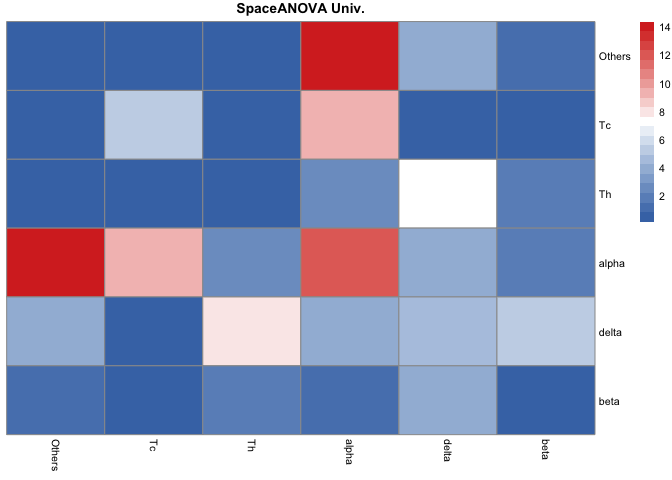
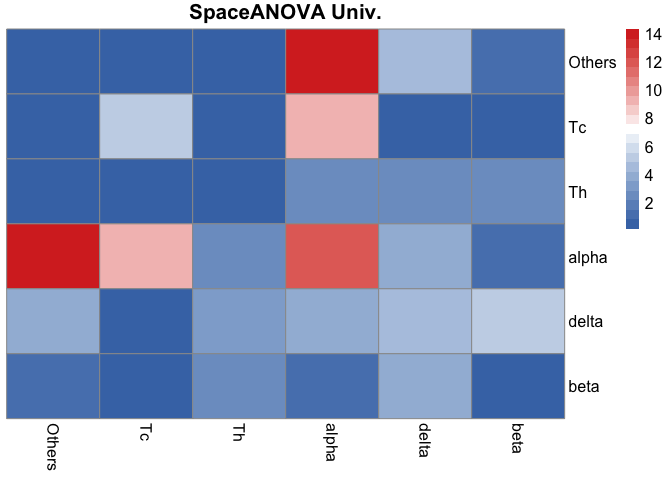
Changing RMD

Changed region(s): [[0.0, 0.0, 1.0, 1.0]]

diff --git a/README.md b/README.md
@@ -15,22 +15,7 @@ We install and load the developmental version of SpaceANOVA from GitHub.
 
 ``` r
 
-suppressWarnings(devtools::install_github('sealx017/SpaceANOVA'))
-# 
-# ── R CMD build ─────────────────────────────────────────────────────────────────
-#      checking for file ‘/private/var/folders/8k/tj8qsmdj7_74drqc_slz0rkh0000gp/T/RtmptMKohV/remotes50f274ef85d7/sealx017-SpaceANOVA-d3ff624/DESCRIPTION’ ...  ✔  checking for file ‘/private/var/folders/8k/tj8qsmdj7_74drqc_slz0rkh0000gp/T/RtmptMKohV/remotes50f274ef85d7/sealx017-SpaceANOVA-d3ff624/DESCRIPTION’
-#   ─  preparing ‘SpaceANOVA’:
-#      checking DESCRIPTION meta-information ...  ✔  checking DESCRIPTION meta-information
-#   ─  checking for LF line-endings in source and make files and shell scripts
-#   ─  checking for empty or unneeded directories
-#        NB: this package now depends on R (>= 3.5.0)
-#        WARNING: Added dependency on R >= 3.5.0 because serialized objects in
-#      serialize/load version 3 cannot be read in older versions of R.
-#      File(s) containing such objects:
-#        ‘SpaceANOVA/Data/IMC_T1DM.rda’
-#   ─  building ‘SpaceANOVA_0.1.0.tar.gz’
-#      
-# 
+suppressWarnings(devtools::install_github('sealx017/SpaceANOVA', quiet = TRUE))
 require(SpaceANOVA)
 
 require(spatstat)
@@ -123,20 +108,20 @@ p_res = p_extract(Final_result)
 Univ_p = p_res[[1]]
 Mult_p = p_res[[2]]
 print(Univ_p)
-#              Others           Tc           Th        alpha        delta
-# Others 7.030910e-01 1.572046e-01 6.421546e-01 5.140401e-15 6.434097e-05
-# Tc     1.589949e-01 1.143203e-05 6.626439e-01 6.437610e-10 2.164065e-01
-# Th     6.596069e-01 6.778576e-01 1.819694e-01 2.989368e-03 1.031986e-07
-# alpha  4.078163e-15 4.141564e-10 5.548258e-03 1.492405e-12 1.638608e-04
-# delta  7.833031e-05 1.901258e-01 1.451958e-08 1.532716e-04 4.315377e-05
-# beta   8.732236e-02 2.218902e-01 1.569129e-02 4.735376e-02 1.247981e-04
+#              Others           Tc          Th        alpha        delta
+# Others 6.989404e-01 1.541579e-01 0.639976780 6.119006e-15 5.954651e-05
+# Tc     1.554234e-01 1.071359e-05 0.653393507 6.877370e-10 3.253652e-01
+# Th     6.605091e-01 6.668094e-01 0.175159285 2.320952e-03 1.942847e-03
+# alpha  4.778777e-15 4.781497e-10 0.004253033 2.359871e-12 1.574602e-04
+# delta  7.254125e-05 2.934233e-01 0.001149728 1.411979e-04 4.138686e-05
+# beta   8.460704e-02 1.927666e-01 0.003808833 5.735812e-02 2.697225e-04
 #                beta
-# Others 8.273657e-02
-# Tc     2.228232e-01
-# Th     1.006248e-02
-# alpha  2.653912e-02
-# delta  3.232963e-06
-# beta   2.983041e-01
+# Others 7.965325e-02
+# Tc     1.926318e-01
+# Th     2.127004e-03
+# alpha  3.391455e-02
+# delta  9.125309e-06
+# beta   2.720038e-01
 ```
 
 ## Heatmap of -log10 of p-values
@@ -147,13 +132,13 @@ Display the -log10 of the p-values using heatmap.
 Plot.heatmap(Univ_p, main = "SpaceANOVA Univ.")
 ```
 
-<img src="README_files/figure-gfm/P-value visualization-1.png" width="40%" />
+<img src="README_files/figure-gfm/P-value visualization-1.png" width="50%" />
 
 ``` r
 Plot.heatmap(Mult_p, main = "SpaceANOVA Mult.")
 ```
 
-<img src="README_files/figure-gfm/P-value visualization-2.png" width="40%" />
+<img src="README_files/figure-gfm/P-value visualization-2.png" width="50%" />
 
 ## Visualizing summary functions
 
@@ -181,12 +166,12 @@ Plot.functions(Functional_results, pair = c("alpha", "alpha"), Fvals = Pointwise
 # [[1]]
 ```
 
-<img src="README_files/figure-gfm/plotting summary functions 1-1.png" width="90%" />
+<img src="README_files/figure-gfm/plotting summary functions 1-1.png" width="100%" height="80%" />
 
     # 
     # [[2]]
 
-<img src="README_files/figure-gfm/plotting summary functions 1-2.png" width="90%" />
+<img src="README_files/figure-gfm/plotting summary functions 1-2.png" width="100%" height="80%" />
 
 ### Pair: (beta, Th)
 
@@ -200,12 +185,12 @@ Plot.functions(Functional_results, pair = c("beta", "Tc"), Fvals = Pointwise_Fva
 # [[1]]
 ```
 
-<img src="README_files/figure-gfm/plotting summary functions 2-1.png" width="90%" />
+<img src="README_files/figure-gfm/plotting summary functions 2-1.png" width="90%" height="70%" />
 
     # 
     # [[2]]
 
-<img src="README_files/figure-gfm/plotting summary functions 2-2.png" width="90%" />
+<img src="README_files/figure-gfm/plotting summary functions 2-2.png" width="90%" height="70%" />
 
 ## Visualizing cellular organization
 
@@ -223,7 +208,7 @@ palette = c("darkorchid1","red", "cyan", "grey", "blue", "green") #assign colors
 Plot.cellTypes(data = IMC_T1DM, ID = "6126", palette = palette)
 ```
 
-<img src="README_files/figure-gfm/plotting celluar organization-1.png" width="90%" />
+<img src="README_files/figure-gfm/plotting celluar organization-1.png" width="800px" height="800px" />
 
     # TableGrob (2 x 2) "arrange": 4 grobs
     #   z     cells    name           grob
@@ -233,7 +218,7 @@ Plot.cellTypes(data = IMC_T1DM, ID = "6126", palette = palette)
     # 4 4 (2-2,2-2) arrange gtable[layout]
     Plot.cellTypes(data = IMC_T1DM, ID = "6414", palette = palette)
 
-<img src="README_files/figure-gfm/plotting celluar organization-2.png" width="90%" />
+<img src="README_files/figure-gfm/plotting celluar organization-2.png" width="800px" height="800px" />
 
     # TableGrob (2 x 2) "arrange": 4 grobs
     #   z     cells    name           grob
